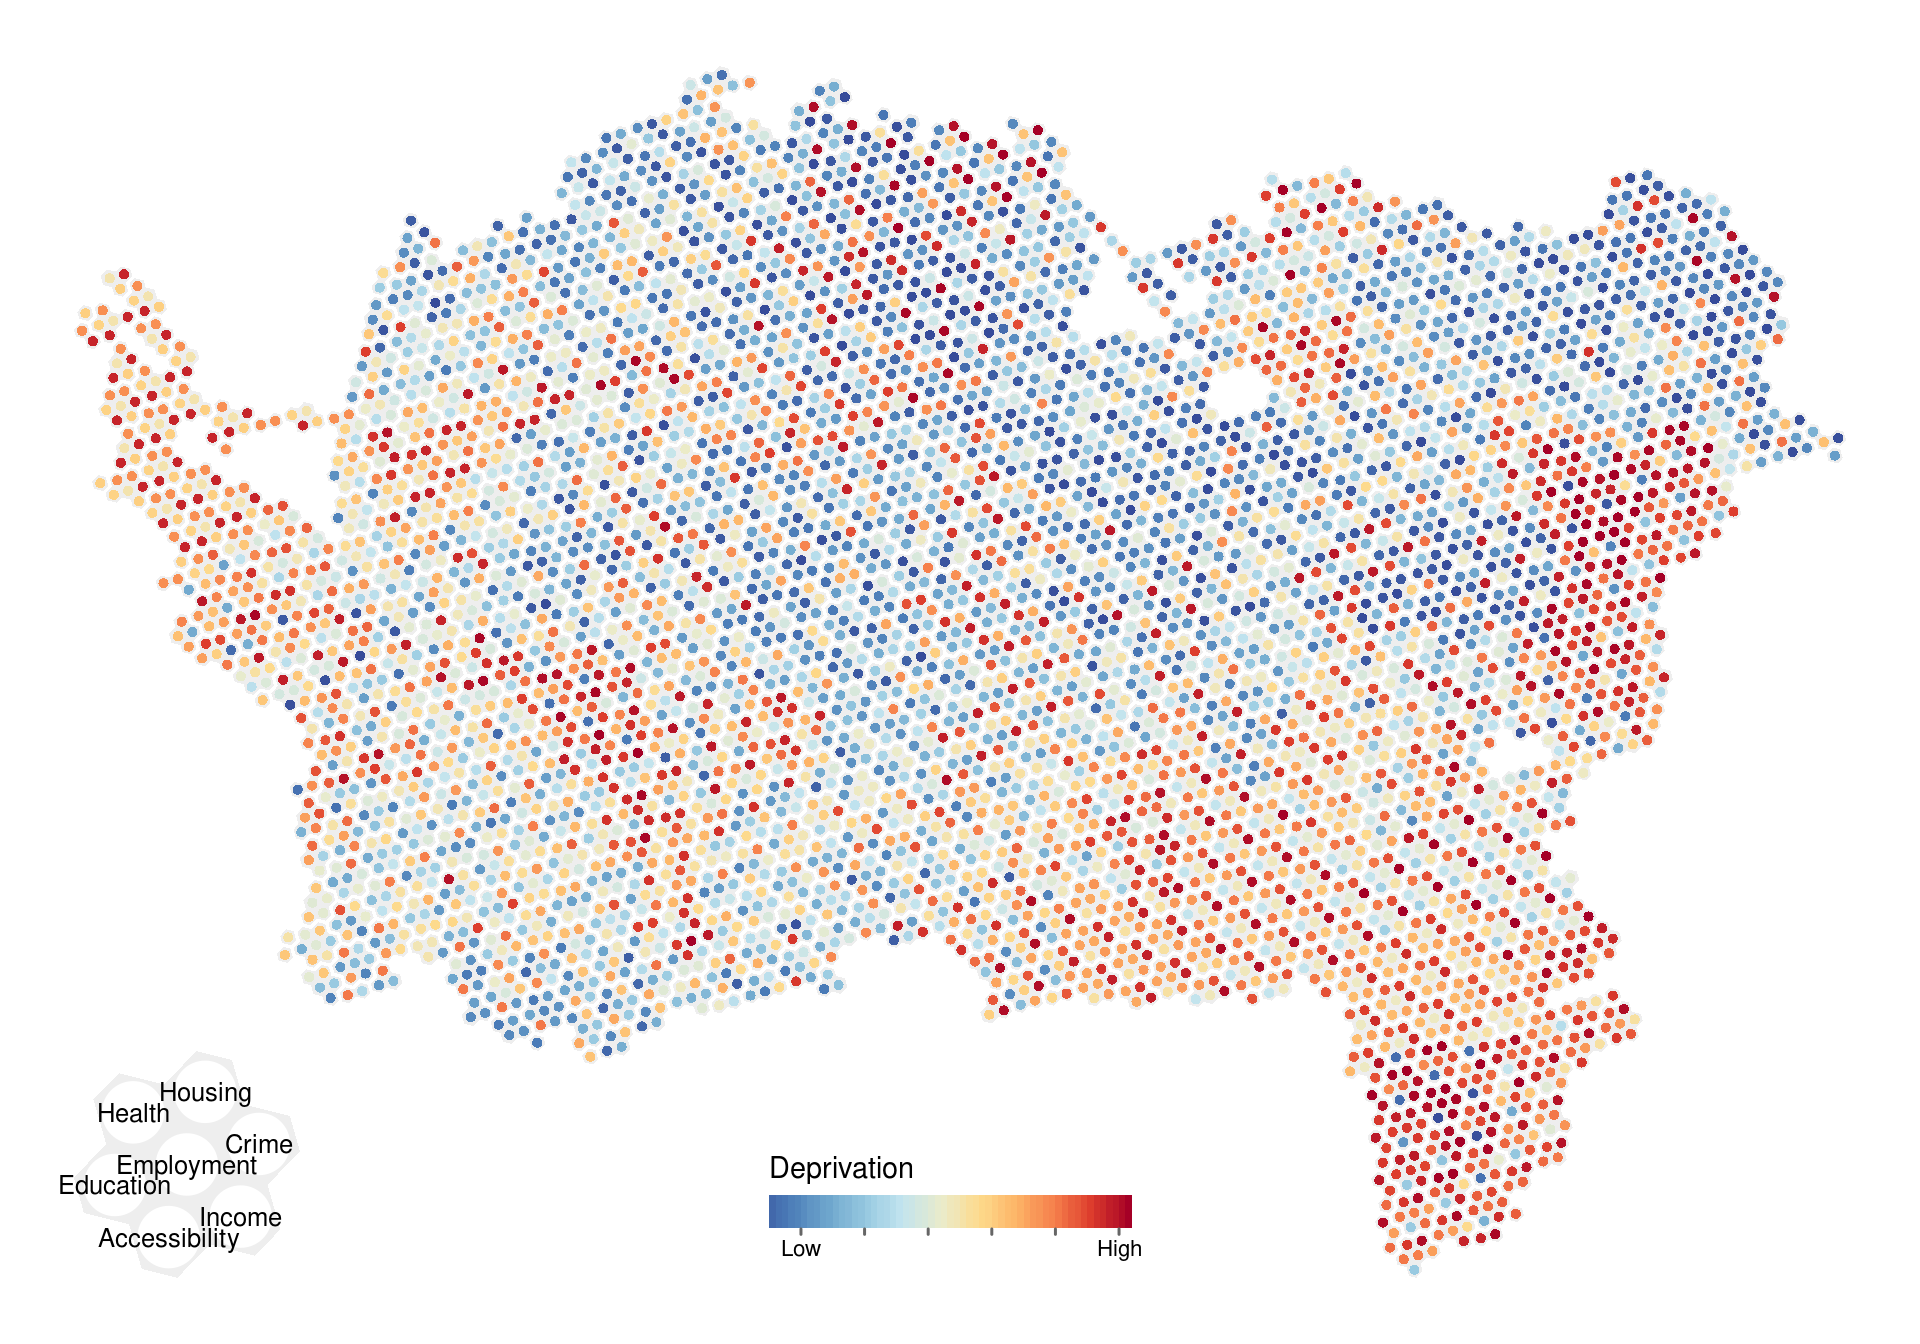
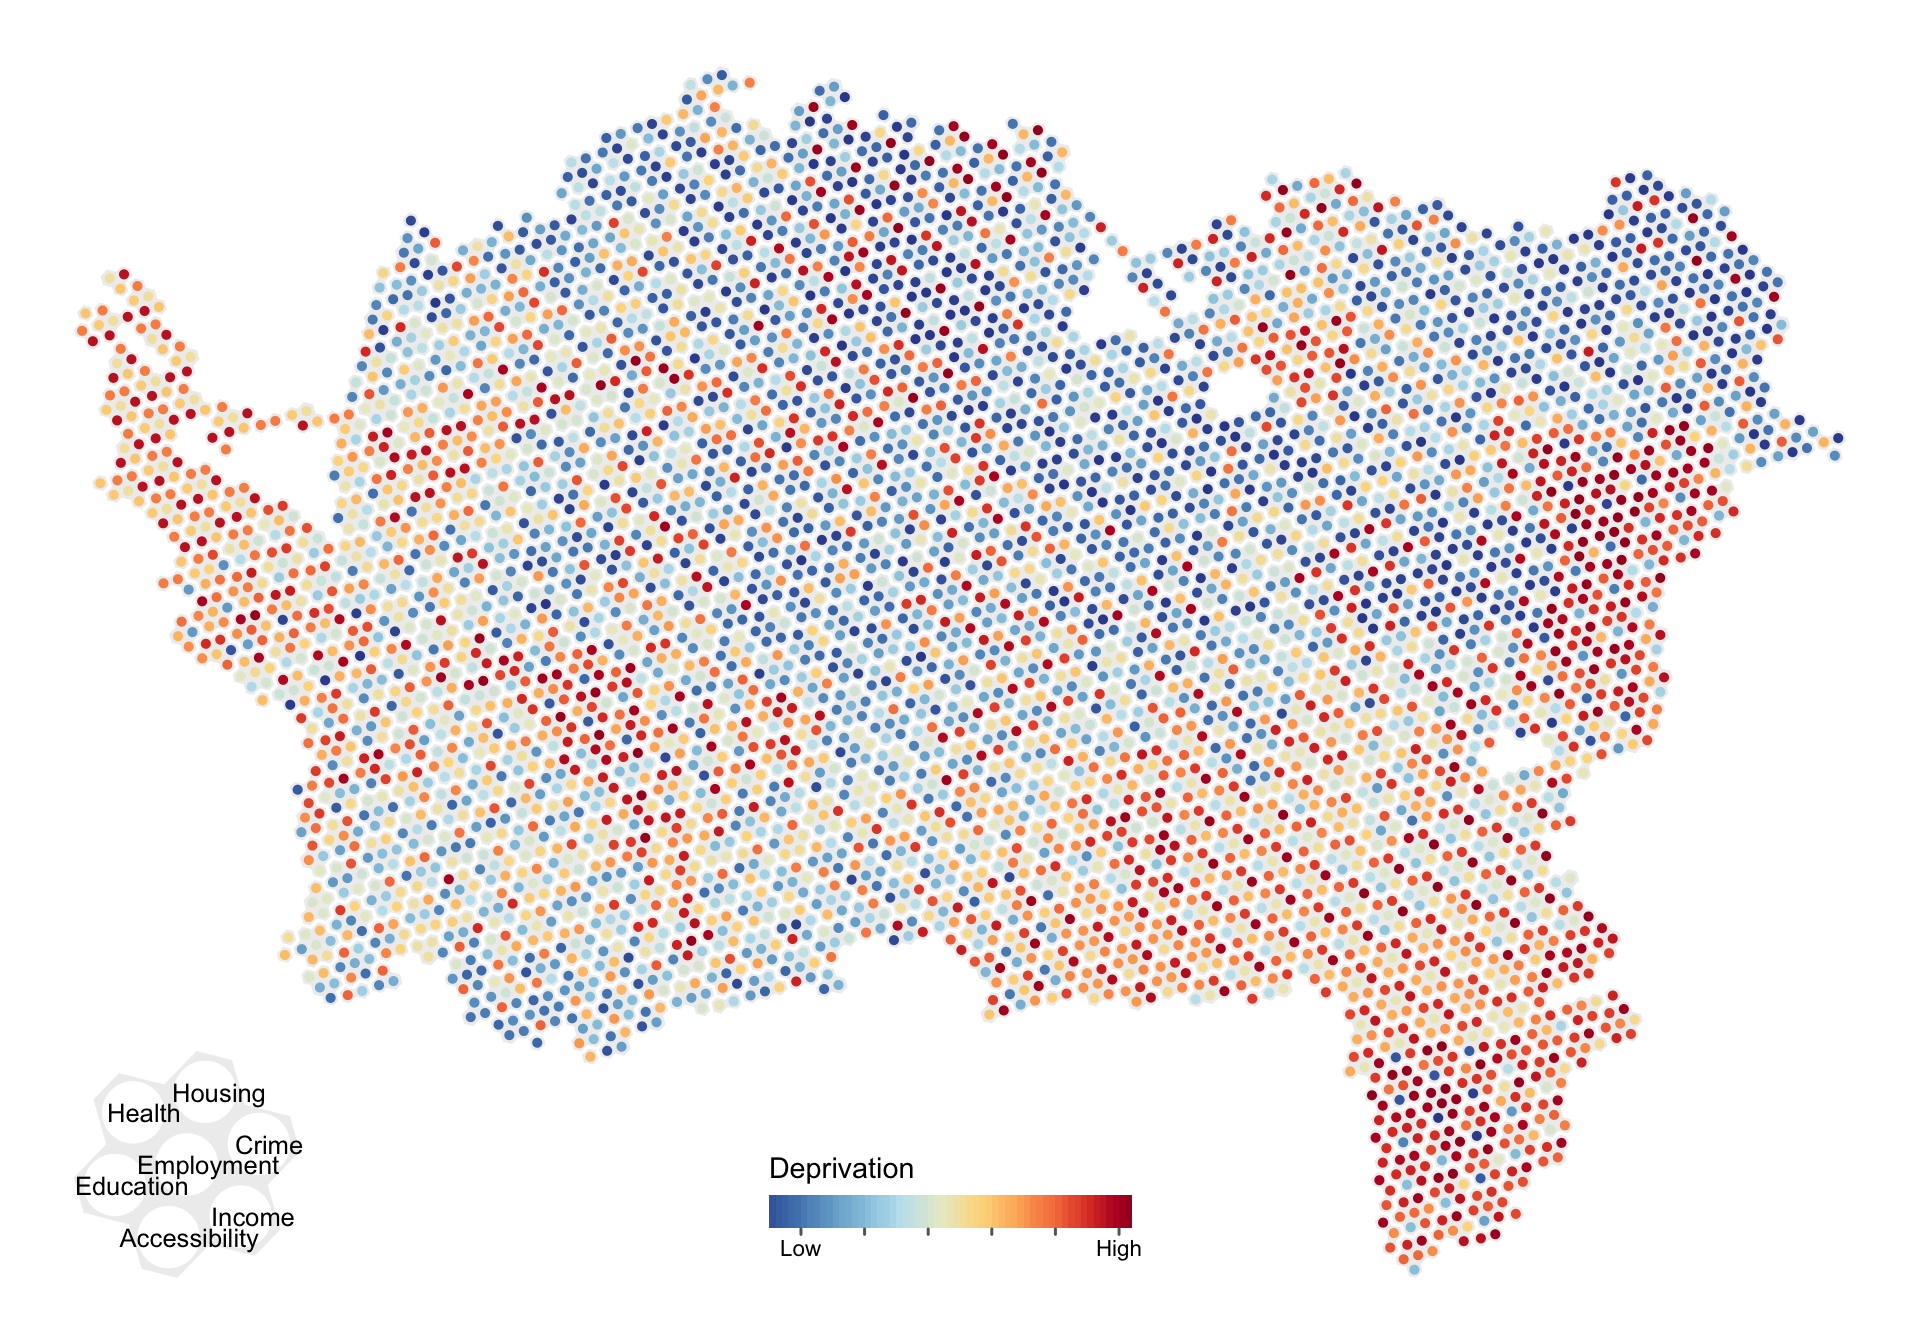
fixed minor issue with dot map legend text labels

diff --git a/docs/maps/27-dot.html b/docs/maps/27-dot.html
@@ -401,7 +401,7 @@ pre > code.sourceCode > span > a:first-child::before { text-decoration: underlin
 <p>Note that the deprivation levels shown in these maps are for the Auckland Central region, but relative to the distribution across all of New Zealand. That is one reason why many areas are ranked ‘deprived’ with respect to ‘crime’ and ‘housing’ while scoring better on other aspects.</p>
 <section id="libraries" class="level2">
 <h2 class="anchored" data-anchor-id="libraries">Libraries</h2>
-<div class="cell" data-hash="27-dot_cache/html/unnamed-chunk-1_d311203436f8edac34347cdafa1c5521">
+<div class="cell">
 <details class="code-fold">
 <summary>Code</summary>
 <div class="sourceCode cell-code" id="cb1"><pre class="sourceCode r code-with-copy"><code class="sourceCode r"><span id="cb1-1"><a href="#cb1-1" aria-hidden="true" tabindex="-1"></a><span class="fu">library</span>(sf)</span>
@@ -413,7 +413,7 @@ pre > code.sourceCode > span > a:first-child::before { text-decoration: underlin
 </section>
 <section id="data-wrangling" class="level2">
 <h2 class="anchored" data-anchor-id="data-wrangling">Data wrangling</h2>
-<div class="cell" data-hash="27-dot_cache/html/unnamed-chunk-2_c035599f36089ad068e9ea5822cd2597">
+<div class="cell">
 <details class="code-fold">
 <summary>Code</summary>
 <div class="sourceCode cell-code" id="cb2"><pre class="sourceCode r code-with-copy"><code class="sourceCode r"><span id="cb2-1"><a href="#cb2-1" aria-hidden="true" tabindex="-1"></a>hexes <span class="ot">&lt;-</span> <span class="fu">st_read</span>(<span class="st">"data/h7-base.gpkg"</span>)</span>
@@ -471,7 +471,7 @@ pre > code.sourceCode > span > a:first-child::before { text-decoration: underlin
 <h2 class="anchored" data-anchor-id="the-map">The map</h2>
 <p><code>tmap</code> only this time, because I’ve moved on from the <code>tmap</code> <em>vs</em> <code>ggplot2</code> concept!</p>
 <p>First, a version with only ‘dots’ for the purists… click on the map for a closer look.</p>
-<div class="cell" data-hash="27-dot_cache/html/unnamed-chunk-3_2f5de02c5dea9c654463daed07387a7f">
+<div class="cell">
 <div class="sourceCode cell-code" id="cb3"><pre class="sourceCode r code-with-copy"><code class="sourceCode r"><span id="cb3-1"><a href="#cb3-1" aria-hidden="true" tabindex="-1"></a>m <span class="ot">&lt;-</span> <span class="fu">tm_shape</span>(base) <span class="sc">+</span></span>
 <span id="cb3-2"><a href="#cb3-2" aria-hidden="true" tabindex="-1"></a>  <span class="fu">tm_fill</span>(<span class="at">fill =</span> <span class="st">"#eeeeee"</span>)</span>
 <span id="cb3-3"><a href="#cb3-3" aria-hidden="true" tabindex="-1"></a><span class="cf">for</span> (i <span class="cf">in</span> <span class="dv">1</span><span class="sc">:</span><span class="dv">7</span>) {</span>
@@ -499,7 +499,7 @@ pre > code.sourceCode > span > a:first-child::before { text-decoration: underlin
 <span id="cb3-25"><a href="#cb3-25" aria-hidden="true" tabindex="-1"></a>  <span class="fu">tm_fill</span>(<span class="at">fill =</span> <span class="st">"#eeeeee"</span>) <span class="sc">+</span></span>
 <span id="cb3-26"><a href="#cb3-26" aria-hidden="true" tabindex="-1"></a>  <span class="fu">tm_shape</span>(legend_elements <span class="sc">%&gt;%</span> <span class="fu">slice</span>(<span class="sc">-</span><span class="dv">8</span>)) <span class="sc">+</span></span>
 <span id="cb3-27"><a href="#cb3-27" aria-hidden="true" tabindex="-1"></a>  <span class="fu">tm_dots</span>(<span class="at">fill =</span> <span class="st">"white"</span>, <span class="at">size =</span> <span class="fl">2.1</span>) <span class="sc">+</span> </span>
-<span id="cb3-28"><a href="#cb3-28" aria-hidden="true" tabindex="-1"></a>  <span class="fu">tm_text</span>(<span class="at">text =</span> <span class="st">"dimension"</span>, <span class="at">size =</span> <span class="fl">0.8</span>) <span class="sc">+</span></span>
+<span id="cb3-28"><a href="#cb3-28" aria-hidden="true" tabindex="-1"></a>  <span class="fu">tm_text</span>(<span class="at">text =</span> <span class="st">"dimension"</span>, <span class="at">size =</span> <span class="fl">0.8</span>, <span class="at">just =</span> <span class="fu">c</span>(<span class="fl">0.35</span>, <span class="fl">0.5</span>)) <span class="sc">+</span></span>
 <span id="cb3-29"><a href="#cb3-29" aria-hidden="true" tabindex="-1"></a>  <span class="fu">tm_layout</span>(<span class="at">frame =</span> <span class="cn">FALSE</span>)</span></code><button title="Copy to Clipboard" class="code-copy-button"><i class="bi"></i></button></pre></div>
 <div class="cell-output-display">
 <div>
@@ -510,7 +510,7 @@ pre > code.sourceCode > span > a:first-child::before { text-decoration: underlin
 </div>
 </div>
 <p>Next, one with the background ‘rosettes’ coloured by the aggregate or summary index. This is interesting because it lets you see how specific aspects of deprivation relate to the overall aggregate index.</p>
-<div class="cell" data-hash="27-dot_cache/html/unnamed-chunk-4_4fbde0f63cd955efb66724002e0b190e">
+<div class="cell">
 <div class="sourceCode cell-code" id="cb4"><pre class="sourceCode r code-with-copy"><code class="sourceCode r"><span id="cb4-1"><a href="#cb4-1" aria-hidden="true" tabindex="-1"></a>m <span class="ot">&lt;-</span> <span class="fu">tm_shape</span>(base) <span class="sc">+</span></span>
 <span id="cb4-2"><a href="#cb4-2" aria-hidden="true" tabindex="-1"></a>  <span class="fu">tm_fill</span>(</span>
 <span id="cb4-3"><a href="#cb4-3" aria-hidden="true" tabindex="-1"></a>    <span class="at">fill =</span> <span class="st">"Rank_IMD18"</span>, </span>
@@ -543,7 +543,7 @@ pre > code.sourceCode > span > a:first-child::before { text-decoration: underlin
 <span id="cb4-30"><a href="#cb4-30" aria-hidden="true" tabindex="-1"></a>  <span class="fu">tm_fill</span>(<span class="at">fill =</span> <span class="st">"#eeeeee"</span>) <span class="sc">+</span></span>
 <span id="cb4-31"><a href="#cb4-31" aria-hidden="true" tabindex="-1"></a>  <span class="fu">tm_shape</span>(legend_elements <span class="sc">%&gt;%</span> <span class="fu">slice</span>(<span class="sc">-</span><span class="dv">8</span>)) <span class="sc">+</span></span>
 <span id="cb4-32"><a href="#cb4-32" aria-hidden="true" tabindex="-1"></a>  <span class="fu">tm_dots</span>(<span class="at">fill =</span> <span class="st">"white"</span>, <span class="at">size =</span> <span class="fl">2.1</span>) <span class="sc">+</span> </span>
-<span id="cb4-33"><a href="#cb4-33" aria-hidden="true" tabindex="-1"></a>  <span class="fu">tm_text</span>(<span class="at">text =</span> <span class="st">"dimension"</span>, <span class="at">size =</span> <span class="fl">0.8</span>) <span class="sc">+</span></span>
+<span id="cb4-33"><a href="#cb4-33" aria-hidden="true" tabindex="-1"></a>  <span class="fu">tm_text</span>(<span class="at">text =</span> <span class="st">"dimension"</span>, <span class="at">size =</span> <span class="fl">0.8</span>, <span class="at">just =</span> <span class="fu">c</span>(<span class="fl">0.35</span>, <span class="fl">0.5</span>)) <span class="sc">+</span></span>
 <span id="cb4-34"><a href="#cb4-34" aria-hidden="true" tabindex="-1"></a>  <span class="fu">tm_layout</span>(<span class="at">frame =</span> <span class="cn">FALSE</span>)</span></code><button title="Copy to Clipboard" class="code-copy-button"><i class="bi"></i></button></pre></div>
 <div class="cell-output-display">
 <div>
@@ -554,7 +554,7 @@ pre > code.sourceCode > span > a:first-child::before { text-decoration: underlin
 </div>
 </div>
 <p>And finally, also ‘dots only’, but this time with big dots for the summary index. I think this one is the prettiest.</p>
-<div class="cell preview-image" data-hash="27-dot_cache/html/unnamed-chunk-5_ac4013f459cbe9d1fb945f26d4b95515">
+<div class="cell preview-image">
 <div class="sourceCode cell-code" id="cb5"><pre class="sourceCode r code-with-copy"><code class="sourceCode r"><span id="cb5-1"><a href="#cb5-1" aria-hidden="true" tabindex="-1"></a>m <span class="ot">&lt;-</span> <span class="fu">tm_shape</span>(layers[[<span class="dv">1</span>]]) <span class="sc">+</span></span>
 <span id="cb5-2"><a href="#cb5-2" aria-hidden="true" tabindex="-1"></a>  <span class="fu">tm_bubbles</span>(</span>
 <span id="cb5-3"><a href="#cb5-3" aria-hidden="true" tabindex="-1"></a>    <span class="at">fill =</span> <span class="st">"Rank_IMD18"</span>, </span>
@@ -589,7 +589,7 @@ pre > code.sourceCode > span > a:first-child::before { text-decoration: underlin
 <span id="cb5-32"><a href="#cb5-32" aria-hidden="true" tabindex="-1"></a>  <span class="fu">tm_bubbles</span>(<span class="at">fill =</span> <span class="st">"#dddddd"</span>, <span class="at">size =</span> <span class="dv">8</span>, <span class="at">lwd =</span> <span class="dv">0</span>) <span class="sc">+</span></span>
 <span id="cb5-33"><a href="#cb5-33" aria-hidden="true" tabindex="-1"></a>  <span class="fu">tm_shape</span>(legend_elements <span class="sc">%&gt;%</span> <span class="fu">slice</span>(<span class="sc">-</span><span class="dv">8</span>)) <span class="sc">+</span></span>
 <span id="cb5-34"><a href="#cb5-34" aria-hidden="true" tabindex="-1"></a>  <span class="fu">tm_dots</span>(<span class="at">fill =</span> <span class="st">"white"</span>, <span class="at">size =</span> <span class="fl">2.1</span>) <span class="sc">+</span> </span>
-<span id="cb5-35"><a href="#cb5-35" aria-hidden="true" tabindex="-1"></a>  <span class="fu">tm_text</span>(<span class="at">text =</span> <span class="st">"dimension"</span>, <span class="at">size =</span> <span class="fl">0.8</span>) <span class="sc">+</span></span>
+<span id="cb5-35"><a href="#cb5-35" aria-hidden="true" tabindex="-1"></a>  <span class="fu">tm_text</span>(<span class="at">text =</span> <span class="st">"dimension"</span>, <span class="at">size =</span> <span class="fl">0.8</span>, <span class="at">just =</span> <span class="fu">c</span>(<span class="fl">0.35</span>, <span class="fl">0.5</span>)) <span class="sc">+</span></span>
 <span id="cb5-36"><a href="#cb5-36" aria-hidden="true" tabindex="-1"></a>  <span class="fu">tm_layout</span>(<span class="at">frame =</span> <span class="cn">FALSE</span>)</span></code><button title="Copy to Clipboard" class="code-copy-button"><i class="bi"></i></button></pre></div>
 <div class="cell-output-display">
 <div>
@@ -1026,7 +1026,7 @@ window.document.addEventListener("DOMContentLoaded", function (event) {
   </div>
 </nav>
 </div> <!-- /content -->
-<script>var lightboxQuarto = GLightbox({"openEffect":"zoom","loop":false,"closeEffect":"zoom","selector":".lightbox","descPosition":"bottom"});
+<script>var lightboxQuarto = GLightbox({"selector":".lightbox","loop":false,"closeEffect":"zoom","openEffect":"zoom","descPosition":"bottom"});
 window.onload = () => {
   lightboxQuarto.on('slide_before_load', (data) => {
     const { slideIndex, slideNode, slideConfig, player, trigger } = data;

diff --git a/docs/index.html b/docs/index.html
@@ -949,7 +949,7 @@ Less is more.
 </div>
 </a>
 </div>
-<div class="g-col-1" data-index="26" data-listing-file-modified-sort="1702203943000" data-listing-reading-time-sort="7" data-listing-word-count-sort="1243">
+<div class="g-col-1" data-index="26" data-listing-file-modified-sort="1710878857522" data-listing-reading-time-sort="7" data-listing-word-count-sort="1255">
 <a href="./maps/27-dot.html" class="quarto-grid-link">
 <div class="quarto-grid-item card h-100 card-left">
 <p class="card-img-top"><img src="maps/27-dot_files/figure-html/unnamed-chunk-5-1.png" style="height: 150px;"  class="thumbnail-image card-img"/></p>

diff --git a/docs/maps/01-points.html b/docs/maps/01-points.html
@@ -941,7 +941,7 @@ window.document.addEventListener("DOMContentLoaded", function (event) {
   </div>
 </nav>
 </div> <!-- /content -->
-<script>var lightboxQuarto = GLightbox({"selector":".lightbox","openEffect":"zoom","closeEffect":"zoom","descPosition":"bottom","loop":false});
+<script>var lightboxQuarto = GLightbox({"selector":".lightbox","loop":false,"descPosition":"bottom","closeEffect":"zoom","openEffect":"zoom"});
 window.onload = () => {
   lightboxQuarto.on('slide_before_load', (data) => {
     const { slideIndex, slideNode, slideConfig, player, trigger } = data;

diff --git a/docs/maps/02-lines.html b/docs/maps/02-lines.html
@@ -903,7 +903,7 @@ window.document.addEventListener("DOMContentLoaded", function (event) {
   </div>
 </nav>
 </div> <!-- /content -->
-<script>var lightboxQuarto = GLightbox({"descPosition":"bottom","closeEffect":"zoom","openEffect":"zoom","loop":false,"selector":".lightbox"});
+<script>var lightboxQuarto = GLightbox({"descPosition":"bottom","loop":false,"closeEffect":"zoom","openEffect":"zoom","selector":".lightbox"});
 window.onload = () => {
   lightboxQuarto.on('slide_before_load', (data) => {
     const { slideIndex, slideNode, slideConfig, player, trigger } = data;

diff --git a/docs/maps/03-polygons.html b/docs/maps/03-polygons.html
@@ -904,7 +904,7 @@ window.document.addEventListener("DOMContentLoaded", function (event) {
   </div>
 </nav>
 </div> <!-- /content -->
-<script>var lightboxQuarto = GLightbox({"selector":".lightbox","descPosition":"bottom","openEffect":"zoom","closeEffect":"zoom","loop":false});
+<script>var lightboxQuarto = GLightbox({"selector":".lightbox","descPosition":"bottom","loop":false,"closeEffect":"zoom","openEffect":"zoom"});
 window.onload = () => {
   lightboxQuarto.on('slide_before_load', (data) => {
     const { slideIndex, slideNode, slideConfig, player, trigger } = data;

diff --git a/docs/maps/04-bad-map.html b/docs/maps/04-bad-map.html
@@ -912,7 +912,7 @@ window.document.addEventListener("DOMContentLoaded", function (event) {
   </div>
 </nav>
 </div> <!-- /content -->
-<script>var lightboxQuarto = GLightbox({"openEffect":"zoom","closeEffect":"zoom","loop":false,"selector":".lightbox","descPosition":"bottom"});
+<script>var lightboxQuarto = GLightbox({"openEffect":"zoom","loop":false,"descPosition":"bottom","selector":".lightbox","closeEffect":"zoom"});
 window.onload = () => {
   lightboxQuarto.on('slide_before_load', (data) => {
     const { slideIndex, slideNode, slideConfig, player, trigger } = data;

diff --git a/docs/maps/05-analog-map.html b/docs/maps/05-analog-map.html
@@ -882,7 +882,7 @@ window.document.addEventListener("DOMContentLoaded", function (event) {
   </div>
 </nav>
 </div> <!-- /content -->
-<script>var lightboxQuarto = GLightbox({"selector":".lightbox","closeEffect":"zoom","loop":false,"openEffect":"zoom","descPosition":"bottom"});
+<script>var lightboxQuarto = GLightbox({"selector":".lightbox","loop":false,"descPosition":"bottom","openEffect":"zoom","closeEffect":"zoom"});
 window.onload = () => {
   lightboxQuarto.on('slide_before_load', (data) => {
     const { slideIndex, slideNode, slideConfig, player, trigger } = data;

diff --git a/docs/maps/06-asia.html b/docs/maps/06-asia.html
@@ -912,7 +912,7 @@ window.document.addEventListener("DOMContentLoaded", function (event) {
   </div>
 </nav>
 </div> <!-- /content -->
-<script>var lightboxQuarto = GLightbox({"closeEffect":"zoom","selector":".lightbox","loop":false,"descPosition":"bottom","openEffect":"zoom"});
+<script>var lightboxQuarto = GLightbox({"closeEffect":"zoom","loop":false,"descPosition":"bottom","openEffect":"zoom","selector":".lightbox"});
 window.onload = () => {
   lightboxQuarto.on('slide_before_load', (data) => {
     const { slideIndex, slideNode, slideConfig, player, trigger } = data;

diff --git a/docs/maps/07-navigation.html b/docs/maps/07-navigation.html
@@ -959,7 +959,7 @@ window.document.addEventListener("DOMContentLoaded", function (event) {
   </div>
 </nav>
 </div> <!-- /content -->
-<script>var lightboxQuarto = GLightbox({"openEffect":"zoom","loop":false,"selector":".lightbox","descPosition":"bottom","closeEffect":"zoom"});
+<script>var lightboxQuarto = GLightbox({"loop":false,"closeEffect":"zoom","selector":".lightbox","descPosition":"bottom","openEffect":"zoom"});
 window.onload = () => {
   lightboxQuarto.on('slide_before_load', (data) => {
     const { slideIndex, slideNode, slideConfig, player, trigger } = data;

diff --git a/docs/maps/08-africa.html b/docs/maps/08-africa.html
@@ -904,7 +904,7 @@ window.document.addEventListener("DOMContentLoaded", function (event) {
   </div>
 </nav>
 </div> <!-- /content -->
-<script>var lightboxQuarto = GLightbox({"selector":".lightbox","descPosition":"bottom","openEffect":"zoom","closeEffect":"zoom","loop":false});
+<script>var lightboxQuarto = GLightbox({"openEffect":"zoom","loop":false,"selector":".lightbox","closeEffect":"zoom","descPosition":"bottom"});
 window.onload = () => {
   lightboxQuarto.on('slide_before_load', (data) => {
     const { slideIndex, slideNode, slideConfig, player, trigger } = data;

diff --git a/docs/maps/09-hexes.html b/docs/maps/09-hexes.html
@@ -949,7 +949,7 @@ window.document.addEventListener("DOMContentLoaded", function (event) {
   </div>
 </nav>
 </div> <!-- /content -->
-<script>var lightboxQuarto = GLightbox({"closeEffect":"zoom","loop":false,"openEffect":"zoom","selector":".lightbox","descPosition":"bottom"});
+<script>var lightboxQuarto = GLightbox({"selector":".lightbox","closeEffect":"zoom","loop":false,"descPosition":"bottom","openEffect":"zoom"});
 window.onload = () => {
   lightboxQuarto.on('slide_before_load', (data) => {
     const { slideIndex, slideNode, slideConfig, player, trigger } = data;

diff --git a/docs/maps/10-north-america.html b/docs/maps/10-north-america.html
@@ -900,7 +900,7 @@ window.document.addEventListener("DOMContentLoaded", function (event) {
   </div>
 </nav>
 </div> <!-- /content -->
-<script>var lightboxQuarto = GLightbox({"selector":".lightbox","descPosition":"bottom","loop":false,"openEffect":"zoom","closeEffect":"zoom"});
+<script>var lightboxQuarto = GLightbox({"selector":".lightbox","closeEffect":"zoom","loop":false,"openEffect":"zoom","descPosition":"bottom"});
 window.onload = () => {
   lightboxQuarto.on('slide_before_load', (data) => {
     const { slideIndex, slideNode, slideConfig, player, trigger } = data;
